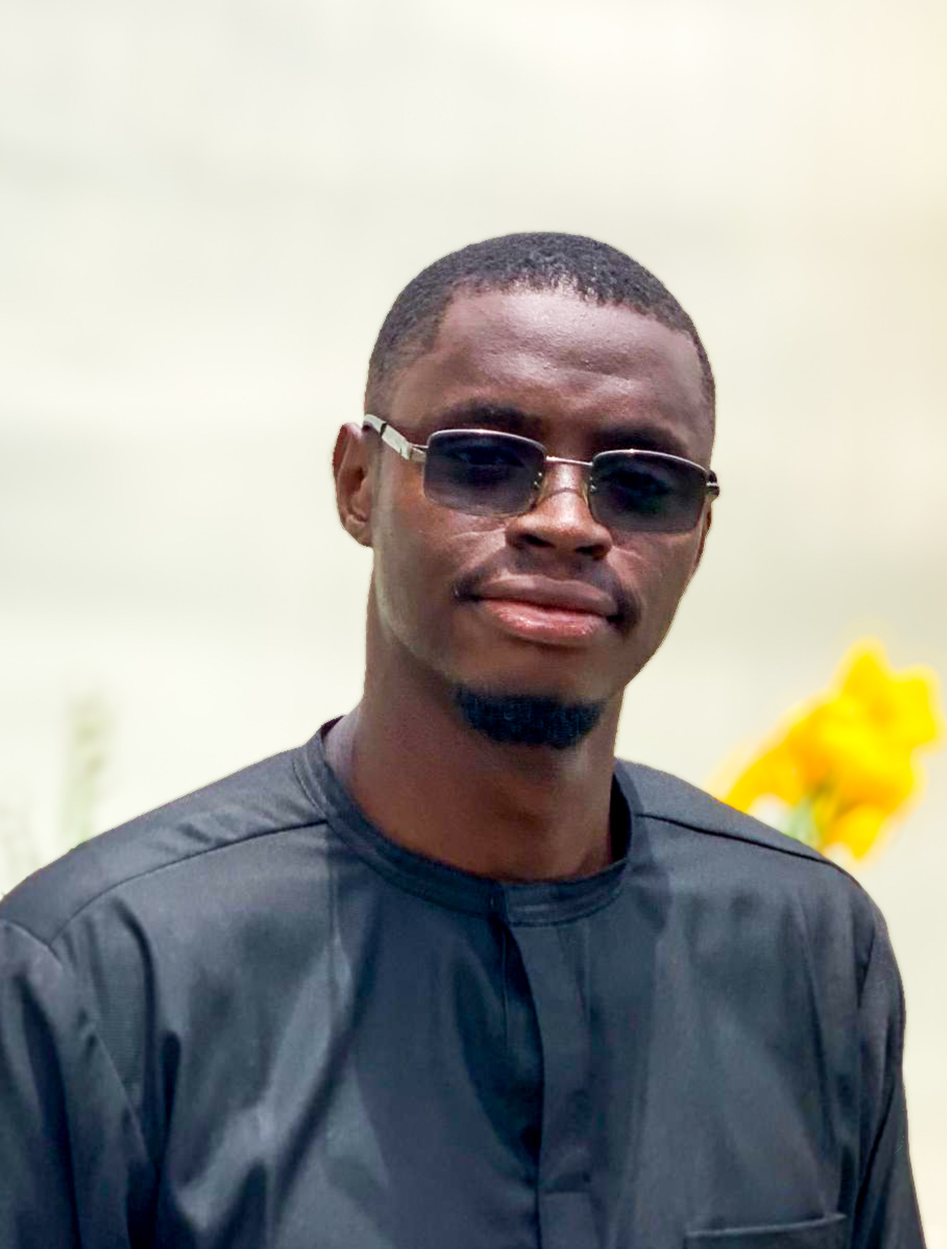
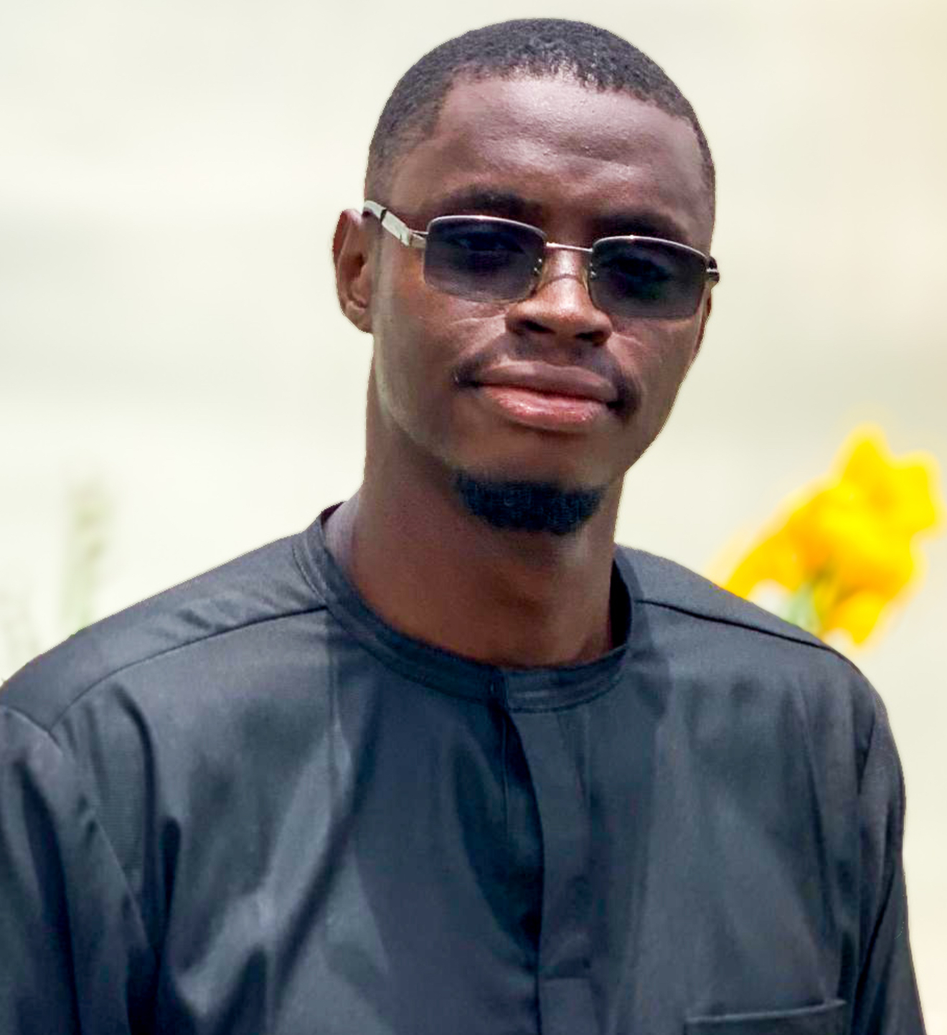
done

diff --git a/public/about.html b/public/about.html
@@ -219,7 +219,7 @@
                 </div>
                 <!-- Team Member 4: Emmanuel Effiom -->
                 <div class="bg-gray-50 dark:bg-gray-800 rounded-xl shadow-md overflow-hidden transition-all duration-300 team-card cursor-pointer" onclick="openTeamModal('emmanuel')">
-                    <div class="overflow-hidden h-64" style="background-image: url(img/mannee.jpg); background-size: cover; object-fit: cover; background-position: center; background-position-y: 90%;">
+                    <div class="overflow-hidden h-64" style="background-image: url(img/1261.png); background-size: cover; object-fit: cover; background-position: center; background-position-y: 0%;">
                        
                     </div>
                     <div class="p-6 ">
@@ -272,7 +272,7 @@
                     <div class="md:col-span-2">
                         <p class="text-gray-600 dark:text-gray-300 mb-2">Efiok Archibong, Ph.D., is a lecturer and researcher at David Umahi Federal University of Health Sciences. He holds a bachelor’s degree in physiology, a master’s degree in blood physiology, and a Ph.D. degree in cardiovascular physiology, all from the University of Calabar, Nigeria. </p>
                             <p class="text-gray-600 dark:text-gray-300">Efiok is a resourceful fellow with good leadership skills and exceptional ability to engage in rigorous and meaningful activities. He has performed research copiously and presented excellent seminar and conference papers. He possesses an investigative mindset and passion for the scientific process, in addition to his great problem-solving skills and cognitive skills. He is always willing to offer his time, skills, expertise, resources and support in the service to humanity. Efiok is doing his best to create an environment for significant positive change, helping the less privileged and promoting education and health. </p>
-                        <a href="efioka@augustineudefafoundation.com" class="text-gold-500 hover:text-gold-500 social-icon"><i class="fa-solid fa-envelope"></i>efioka@augustineudefafoundation.com</a>
+                        <!-- <a href="efioka@augustineudefafoundation.com" class="text-gold-500 hover:text-gold-500 social-icon"><i class="fa-solid fa-envelope"></i>efioka@augustineudefafoundation.com</a> -->
                     </div>
                 </div>
                 <div class="flex justify-end">
@@ -303,7 +303,7 @@
                     <div class="md:col-span-2">
                         <p class="text-gray-600 dark:text-gray-300 mb-2">Anyati, Charles-Vic is a forward-thinking visual artist and technologist who blends creativity with innovation to craft impactful visual experiences. Born in Obudu, Cross River State, he holds a Bachelor of Arts degree from the University of Cross River State, where he developed a strong foundation in design, visual storytelling, and creative technology.</p>
                             <p class="text-gray-600 dark:text-gray-300">With expertise in branding, printing, and digital design, Charles-Vic brings stories to life through art that resonates, engages, and inspires. As the founder of a growing creative business, Charles-Vic is passionate about using visual language to solve problems, spark emotion, and elevate brands. His work bridges aesthetics with function driven by a deep belief in the power of creativity to transform ideas into lasting impressions.</p>
-                        <a href="mailto:charlesvica@augustineudefafoundation.com" class="text-gold-500 hover:text-gold-500 social-icon"><i class="fa-solid fa-envelope"></i>charlesvica@augustineudefafoundation.com</a>
+                        <!-- <a href="mailto:charlesvica@augustineudefafoundation.com" class="text-gold-500 hover:text-gold-500 social-icon"><i class="fa-solid fa-envelope"></i>charlesvica@augustineudefafoundation.com</a> -->
                     </div>
                 </div>
                 <div class="flex justify-end">
@@ -335,7 +335,7 @@
                         <p class="text-gray-600 dark:text-gray-300 mb-4">
                      Orindu Esther Oluebube, a bright and compassionate young woman pursuing her passion for healthcare as a nursing student. With a strong desire to make a positive impact on people's lives, she's dedicated to her studies and clinical rotations. Her empathetic nature and excellent communication skills make her a valuable asset to the people around her  especially her colleagues. As she navigates the challenges of nursing school, she's driven by her commitment to delivering high-quality patient care and making a difference in her community.
                         </p>
-                        <a href="mailto:esthero@augustineudefafoundation.com" class="text-gold-500 hover:text-gold-500 social-icon"><i class="fa-solid fa-envelope"></i>esthero@augustineudefafoundation.com</a>
+                        <!-- <a href="mailto:esthero@augustineudefafoundation.com" class="text-gold-500 hover:text-gold-500 social-icon"><i class="fa-solid fa-envelope"></i>esthero@augustineudefafoundation.com</a> -->
                     </div>
                 </div>
                 <div class="flex justify-end">
@@ -359,7 +359,7 @@
                 </div>
                 <div class="grid md:grid-cols-3 gap-6 mb-6">
                     <div class="md:col-span-1">
-                        <img src="img/mannee.jpg" 
+                        <img src="img/1261.png" 
                              alt="charles Udefa" 
                              class="w-full rounded-lg">
                     </div>
@@ -367,7 +367,7 @@
                         <p class="text-gray-600 dark:text-gray-300 mb-4">
                        Emmanuel Effiom is a passionate developer focused on building scalable web applications and collaborating with teams to deliver impactful solutions. With a   BSc degree in Computer Science & HND in Software Engineering and a  hands-on experience in various programming languages and frameworks, Emmanuel thrives in dynamic environments where innovation and creativity are encouraged. He is committed to continuous learning and staying updated with the latest industry trends to ensure that his work remains relevant and effective. Emmanuel's dedication to excellence and problem-solving skills make him a valuable asset to any development team.
                         </p>
-                        <a href="mailto:emmanueleffiomukpabio@gmail.com" class="text-gold-500 hover:text-gold-500 social-icon"><i class="fa-solid fa-envelope"></i>emmanueleffiomukpabio@gmail.com</a>
+                        <!-- <a href="mailto:emmanueleffiomukpabio@gmail.com" class="text-gold-500 hover:text-gold-500 social-icon"><i class="fa-solid fa-envelope"></i>emmanueleffiomukpabio@gmail.com</a> -->
                     </div>
                 </div>
                 <div class="flex justify-end">
@@ -399,7 +399,7 @@
                         <p class="text-gray-600 dark:text-gray-300 mb-4">
                       Otubonchi Macjohnson Odu is a developer focused on innovative solutions and committed to continuous learning in technology. With a solid foundation in software engineering and practical experience in various programming languages and frameworks, and an HND in software engineering from Aptech Computer Education, Otubonchi excels in creating efficient and user-friendly applications.<br><br> He thrives in collaborative environments where creativity and problem-solving are encouraged. Otubonchi's dedication to staying updated with the latest industry trends ensures that his work remains relevant and impactful. His passion for technology and commitment to excellence make him a valuable contributor to any development team.
                         </p>
-                        <a href="mailto:esthero@augustineudefafoundation.com" class="text-gold-500 hover:text-gold-500 social-icon"><i class="fa-solid fa-envelope"></i>macj497@gmail.com</a>
+                        <!-- <a href="mailto:esthero@augustineudefafoundation.com" class="text-gold-500 hover:text-gold-500 social-icon"><i class="fa-solid fa-envelope"></i>macj497@gmail.com</a> -->
                     </div>
                 </div>
                 <div class="flex justify-end">
@@ -1034,7 +1034,7 @@ disease to investigate disease pathogenesis and advance novel therapeutic strate
                     <h3 class="text-lg font-semibold mb-4">Follow Us</h3>
                     <div class="flex space-x-4">
                           <a href="https://www.facebook.com/share/1CYdGtH2dk/?mibextid=wwXIfr" class="text-gray-400 hover:text-white transition-colors text-xl"><i class="fab fa-facebook-f"></i></a>
-                        <a href="#" class="text-gray-400 hover:text-white transition-colors text-xl"><img width="24" height="24" src="img/icons8-twitter-48.png" alt="twitterx--v2"/></a>
+                        <a href="https://x.com/UdefaFoundation" class="text-gray-400 hover:text-white transition-colors text-xl"><img width="24" height="24" src="img/icons8-twitter-48.png" alt="twitterx--v2"/></a>
                         <a href="https://www.instagram.com/augustineudefafoundation?igsh=eWsybWllYXlyMDB6&utm_source=qr" class="text-gray-400 hover:text-white transition-colors text-xl"><i class="fab fa-instagram"></i></a>
                            <a href="https://www.linkedin.com/in/augustine-udefa-foundation-a308a038a?utm_source=share&utm_campaign=share_via&utm_content=profile&utm_medium=ios_app" class="text-gray-400 hover:text-white transition-colors text-xl"><i class="fab fa-linkedin-in"></i></a>
                          <a href="https://www.youtube.com/@AugustineUdefaFoundation" class="text-gray-400 hover:text-white transition-colors text-xl"><i class="fab fa-youtube"></i></a>

diff --git a/public/mentor.html b/public/mentor.html
@@ -102,7 +102,7 @@
           <div class="grid grid-cols-1 md:grid-cols-2 gap-4 mt-3">
             <div>
               <label for="fullName" class="block text-sm font-medium mb-1 text-gray-900 dark:text-white">Full name</label>
-              <input type="text" id="fullName" name="fullName" required class="w-full px-4 py-2 border rounded-lg dark:bg-gray-900 dark:border-gray-700 dark:text-gray-400">
+              <input type="text" id="applicantname" name="applicantname" required class="w-full px-4 py-2 border rounded-lg dark:bg-gray-900 dark:border-gray-700 dark:text-gray-400">
             </div>
             <div>
               <label for="dob" class="block text-sm font-medium mb-1 text-gray-900 dark:text-white">Date of birth</label>
@@ -111,7 +111,7 @@
 
             <div>
               <label for="sex" class="block text-sm font-medium mb-1 text-gray-900 dark:text-white">Gender</label>
-              <select id="sex" name="sex" required class="w-full px-4 py-2 border rounded-lg dark:bg-gray-900 dark:border-gray-700 dark:text-gray-400">
+              <select id="gender" name="gender" required class="w-full px-4 py-2 border rounded-lg dark:bg-gray-900 dark:border-gray-700 dark:text-gray-400">
                 <option value="">Select</option>
                 <option value="male">Male</option>
                 <option value="female">Female</option>
@@ -126,7 +126,7 @@
 
             <div>
               <label for="stateOfOrigin" class="block text-sm font-medium mb-1 text-gray-900 dark:text-white">State of origin</label>
-              <input type="text" id="stateOfOrigin" name="stateOfOrigin" class="w-full px-4 py-2 border rounded-lg dark:bg-gray-900 dark:border-gray-700 dark:text-gray-400">
+              <input type="text" id="stateoforigin" name="stateoforigin" class="w-full px-4 py-2 border rounded-lg dark:bg-gray-900 dark:border-gray-700 dark:text-gray-400">
             </div>
             <div>
               <label for="religion" class="block text-sm font-medium mb-1 text-gray-900 dark:text-white">Religion</label>
@@ -135,16 +135,16 @@
 
             <div>
               <label for="contact" class="block text-sm font-medium mb-1 text-gray-900 dark:text-white">Contact number</label>
-              <input type="tel" id="contact" name="contact" required class="w-full px-4 py-2 border rounded-lg dark:bg-gray-900 dark:border-gray-700 dark:text-gray-400">
+              <input type="tel" id="contactnumber" name="contactnumber" required class="w-full px-4 py-2 border rounded-lg dark:bg-gray-900 dark:border-gray-700 dark:text-gray-400">
             </div>
             <div>
               <label for="email" class="block text-sm font-medium mb-1 text-gray-900 dark:text-white">Email address</label>
-              <input type="email" id="email" name="email" required class="w-full px-4 py-2 border rounded-lg dark:bg-gray-900 dark:border-gray-700 dark:text-gray-400">
+              <input type="email" id="applicantemail" name="applicantemail" required class="w-full px-4 py-2 border rounded-lg dark:bg-gray-900 dark:border-gray-700 dark:text-gray-400">
             </div>
 
             <div class="md:col-span-2">
               <label for="permanentAddress" class="block text-sm font-medium mb-1 text-gray-900 dark:text-white">Permanent address</label>
-              <textarea id="permanentAddress" name="permanentAddress" rows="2" class="w-full px-4 py-2 border rounded-lg dark:bg-gray-900 dark:border-gray-700 dark:text-gray-400"></textarea>
+              <textarea id="permanentaddress" name="permanentaddress" rows="2" class="w-full px-4 py-2 border rounded-lg dark:bg-gray-900 dark:border-gray-700 dark:text-gray-400"></textarea>
             </div>
           </div>
         </fieldset>
@@ -173,7 +173,7 @@
 
             <div>
               <label for="cgpa" class="block text-sm font-medium mb-1 text-gray-900 dark:text-white">CGPA</label>
-              <input type="text" id="cgpa" name="cgpa" placeholder="e.g. 4.00 / 5.00" class="w-full px-4 py-2 border rounded-lg dark:bg-gray-900 dark:border-gray-700 dark:text-gray-400">
+              <input type="text" id="mcgpa" name="mcgpa" placeholder="e.g. 4.00 / 5.00" class="w-full px-4 py-2 border rounded-lg dark:bg-gray-900 dark:border-gray-700 dark:text-gray-400">
             </div>
 
             <div>
@@ -241,10 +241,15 @@
           <legend class="px-2 text-lg font-semibold text-gray-900 dark:text-white">Document upload (PDFs unless otherwise stated)</legend>
           <p class="text-sm text-gray-600 dark:text-gray-300 mt-2">Upload PDFs for documents. Photograph should be a JPG/PNG.</p>
 
+          
           <div class="grid grid-cols-1 md:grid-cols-2 gap-4 mt-3">
+               <div>
+          <label for="admission-letter" class="block text-sm font-medium mb-1 dark:text-white text-gray-900">Upload Photo</label>
+           <input type="hidden" role="uploadcare-uploader" id="photo" name="photo" data-public-key="bb3e37fd7caa0a712fe8" data-tabs="file url" data-clearable="true" data-multiple="false"  data-crop="" data-system-dialog="true" data-preview-step="true" required />
+        </div>
             <div>
               <label for="coverLetter" class="block text-sm font-medium mb-1 text-gray-900 dark:text-white">Cover letter (PDF)</label>
-              <input type="hidden" role="uploadcare-uploader" id="coverLetter" name="coverLetter" data-public-key="bb3e37fd7caa0a712fe8" data-tabs="file url" data-clearable="true" data-accept="application/pdf" data-preview-step="true" />
+              <input type="hidden" role="uploadcare-uploader" id="mcoverLetter" name="mcoverLetter" data-public-key="bb3e37fd7caa0a712fe8" data-tabs="file url" data-clearable="true" data-accept="application/pdf" data-preview-step="true" />
             </div>
 
             <div>
@@ -277,10 +282,7 @@
               <input type="hidden" role="uploadcare-uploader" id="recommendation3" name="recommendation3" data-public-key="bb3e37fd7caa0a712fe8" data-tabs="file url" data-clearable="true" data-accept="application/pdf" data-preview-step="true" />
             </div>
 
-            <div>
-              <label for="photoUpload" class="block text-sm font-medium mb-1 text-gray-900 dark:text-white">Photograph (JPG/PNG)</label>
-              <input type="hidden" role="uploadcare-uploader" id="photoUpload" name="photoUpload" data-public-key="bb3e37fd7caa0a712fe8" data-tabs="file url camera" data-clearable="true" data-accept="image/*" data-images-only="true" data-preview-step="true" />
-            </div>
+         
           </div>
         </fieldset>
 

diff --git a/public/speakingscholarship.html b/public/speakingscholarship.html
@@ -42,14 +42,14 @@
       <p>The Augustine Udefa Speaking Scholarship is awarded to students in African educational institutions, who can demonstrate good public speaking skills and critical thinking ability. The scholarship is awarded to students in any discipline, and winning it is contingent on the student being of good moral conduct and winning a series of speaking competitions. The scholarship provides full school fees support for the duration of your studies and a one-time cash payment.</p>
       <h2 class="font-semibold text-lg">Eligibility</h2>
       <ul class="list-disc ml-6">
-        <li>You must be a student in a African public university, polytechnic, monotechnic, or college of education in your first or second year. However, you may be considered if you're in your third or fourth year and you can demonstrate that you are passing through financial hardship.</li>
+        <li>You must be a student in an African public university, polytechnic, monotechnic, or college of education in your first or second year. However, you may be considered if you're in your third or fourth year and you can demonstrate that you are passing through financial hardship.</li>
         <li>You must be of good moral conduct.</li>
         <li>You must submit all required application documents via the application portal. Documents required include curriculum vitae, admission letter, and an attestation letter from your Head of Department (HOD) on their letterhead, attesting to your good moral conduct.</li>
       </ul>
       <h2 class="font-semibold text-lg">Scholarship Value</h2>
       <ul class="list-disc ml-6">
-        <li><strong>Winner:</strong> Full school  fee support for the period of your program. Cash prize of N100,000.</li>
-        <li><strong>2nd Position:</strong> Full school  fee support for one academic session. Cash prize of N50,000.</li>
+        <li><strong>Winner:</strong> Full school  fee support for the period of your program. Cash prize of ₦100,000.</li>
+        <li><strong>2nd Position:</strong> Full school  fee support for one academic session. Cash prize of ₦50,000.</li>
         <li><strong>3rd Position:</strong> Full school  fee support for one academic session.</li>
       </ul>
       <h2 class="font-semibold text-lg">Renewal & Termination</h2>
@@ -81,7 +81,7 @@ Recipients of the Augustine Udefa Speaking Scholarship are expected to be good a
         <li><strong>TikTok:</strong> <a href="https://www.tiktok.com/@ytino.intellectual?_t=ZM-8y2RLjtGYQY&_r=1" target="_blank" class="text-gold-500 underline">Y’tino Intellectual Discourse</a></li>
         <li><strong>YouTube:</strong> <a href="https://www.youtube.com/@augustineudefafoundation" target="_blank" class="text-gold-500 underline">Augustine Udefa Foundation</a></li>
       </ul>
-      <p>Each speaker will make a video presentation of their points and forward the video to the Foundation via a dedicated phone number which will be sent to the speakers. The video should be clear and audible and not be more than 3 min.</p>
+      <p>Each speaker will make a video presentation of their points and forward the video to the Foundation via a dedicated email address which will be sent to the speakers. The video should be clear and audible and not be more than 3 min.</p>
       <h3 class="font-semibold text-md mt-4">Stages</h3>
       <ul class="list-disc ml-6">
         <li><strong>Stage 1:</strong> Each member in each group will compete with the other members in the same group individually. For each win, the winner will be assigned three points. At the end of this stage, the speaker with the highest point in each group will proceed to stage 2. This means that stage 2 will consist of winners from the various groups in stage 1 (one winner from each group).</li>
@@ -193,6 +193,10 @@ Recipients of the Augustine Udefa Speaking Scholarship are expected to be good a
           <input type="text" id="cgpa" name="cgpa" class="w-full px-4 py-2 border border-gray-300 rounded-lg text-gray-900 dark:bg-gray-900 dark-border-gray-700 dark:text-gray-400" required placeholder="e.g. 4.35 / 5.0">
         </div>
         <!-- Uploadcare File Uploads (no duplicate hidden inputs) -->
+            <div>
+          <label for="admission-letter" class="block text-sm font-medium mb-1 dark:text-white text-gray-900">Upload Photo</label>
+           <input type="hidden" role="uploadcare-uploader" id="photo" name="photo" data-public-key="bb3e37fd7caa0a712fe8" data-tabs="file url" data-clearable="true" data-multiple="false"  data-crop="" data-system-dialog="true" data-preview-step="true" required />
+        </div>
         <div>
           <label for="coverletter" class="block text-sm font-medium mb-1 dark:text-white text-gray-900">Cover Letter (PDF)</label>
           <input type="hidden" role="uploadcare-uploader" id="coverletter" name="coverletter" data-public-key="bb3e37fd7caa0a712fe8" data-tabs="file url" data-clearable="true" data-multiple="false" data-images-only="false" data-accept="application/pdf" data-crop="" data-input-accept-types="application/pdf" data-system-dialog="true" data-preview-step="true" required />

diff --git a/public/program.html b/public/program.html
@@ -1164,7 +1164,7 @@
                     <h3 class="text-lg font-semibold mb-4">Follow Us</h3>
                     <div class="flex space-x-4">
                           <a href="https://www.facebook.com/share/1CYdGtH2dk/?mibextid=wwXIfr" class="text-gray-400 hover:text-white transition-colors text-xl"><i class="fab fa-facebook-f"></i></a>
-                        <a href="#" class="text-gray-400 hover:text-white transition-colors text-xl"><img width="24" height="24" src="img/icons8-twitter-48.png" alt="twitterx--v2"/></a>
+                        <a href="https://x.com/UdefaFoundation" class="text-gray-400 hover:text-white transition-colors text-xl"><img width="24" height="24" src="img/icons8-twitter-48.png" alt="twitterx--v2"/></a>
                         <a href="https://www.instagram.com/augustineudefafoundation?igsh=eWsybWllYXlyMDB6&utm_source=qr" class="text-gray-400 hover:text-white transition-colors text-xl"><i class="fab fa-instagram"></i></a>
                            <a href="https://www.linkedin.com/in/augustine-udefa-foundation-a308a038a?utm_source=share&utm_campaign=share_via&utm_content=profile&utm_medium=ios_app" class="text-gray-400 hover:text-white transition-colors text-xl"><i class="fab fa-linkedin-in"></i></a>
                          <a href="https://www.youtube.com/@AugustineUdefaFoundation" class="text-gray-400 hover:text-white transition-colors text-xl"><i class="fab fa-youtube"></i></a>

diff --git a/public/donate.html b/public/donate.html
@@ -279,7 +279,7 @@
                     <h3 class="text-lg font-semibold mb-4">Follow Us</h3>
                     <div class="flex space-x-4">
                           <a href="https://www.facebook.com/share/1CYdGtH2dk/?mibextid=wwXIfr" class="text-gray-400 hover:text-white transition-colors text-xl"><i class="fab fa-facebook-f"></i></a>
-                        <a href="#" class="text-gray-400 hover:text-white transition-colors text-xl"><img width="24" height="24" src="img/icons8-twitter-48.png" alt="twitterx--v2"/></a>
+                        <a href="https://x.com/UdefaFoundation" class="text-gray-400 hover:text-white transition-colors text-xl"><img width="24" height="24" src="img/icons8-twitter-48.png" alt="twitterx--v2"/></a>
                         <a href="https://www.instagram.com/augustineudefafoundation?igsh=eWsybWllYXlyMDB6&utm_source=qr" class="text-gray-400 hover:text-white transition-colors text-xl"><i class="fab fa-instagram"></i></a>
                            <a href="https://www.linkedin.com/in/augustine-udefa-foundation-a308a038a?utm_source=share&utm_campaign=share_via&utm_content=profile&utm_medium=ios_app" class="text-gray-400 hover:text-white transition-colors text-xl"><i class="fab fa-linkedin-in"></i></a>
                          <a href="https://www.youtube.com/@AugustineUdefaFoundation" class="text-gray-400 hover:text-white transition-colors text-xl"><i class="fab fa-youtube"></i></a>

diff --git a/public/event.html b/public/event.html
@@ -575,7 +575,7 @@
                     <h3 class="text-lg font-semibold mb-4">Follow Us</h3>
                     <div class="flex space-x-4">
                           <a href="https://www.facebook.com/share/1CYdGtH2dk/?mibextid=wwXIfr" class="text-gray-400 hover:text-white transition-colors text-xl"><i class="fab fa-facebook-f"></i></a>
-                        <a href="#" class="text-gray-400 hover:text-white transition-colors text-xl"><img width="24" height="24" src="img/icons8-twitter-48.png" alt="twitterx--v2"/></a>
+                        <a href="https://x.com/UdefaFoundation" class="text-gray-400 hover:text-white transition-colors text-xl"><img width="24" height="24" src="img/icons8-twitter-48.png" alt="twitterx--v2"/></a>
                         <a href="https://www.instagram.com/augustineudefafoundation?igsh=eWsybWllYXlyMDB6&utm_source=qr" class="text-gray-400 hover:text-white transition-colors text-xl"><i class="fab fa-instagram"></i></a>
                            <a href="https://www.linkedin.com/in/augustine-udefa-foundation-a308a038a?utm_source=share&utm_campaign=share_via&utm_content=profile&utm_medium=ios_app" class="text-gray-400 hover:text-white transition-colors text-xl"><i class="fab fa-linkedin-in"></i></a>
                          <a href="https://www.youtube.com/@AugustineUdefaFoundation" class="text-gray-400 hover:text-white transition-colors text-xl"><i class="fab fa-youtube"></i></a>

diff --git a/public/volunteer.html b/public/volunteer.html
@@ -443,7 +443,7 @@
                     <h3 class="text-lg font-semibold mb-4">Follow Us</h3>
                     <div class="flex space-x-4">
                           <a href="https://www.facebook.com/share/1CYdGtH2dk/?mibextid=wwXIfr" class="text-gray-400 hover:text-white transition-colors text-xl"><i class="fab fa-facebook-f"></i></a>
-                        <a href="#" class="text-gray-400 hover:text-white transition-colors text-xl"><img width="24" height="24" src="img/icons8-twitter-48.png" alt="twitterx--v2"/></a>
+                        <a href="https://x.com/UdefaFoundation" class="text-gray-400 hover:text-white transition-colors text-xl"><img width="24" height="24" src="img/icons8-twitter-48.png" alt="twitterx--v2"/></a>
                         <a href="https://www.instagram.com/augustineudefafoundation?igsh=eWsybWllYXlyMDB6&utm_source=qr" class="text-gray-400 hover:text-white transition-colors text-xl"><i class="fab fa-instagram"></i></a>
                            <a href="https://www.linkedin.com/in/augustine-udefa-foundation-a308a038a?utm_source=share&utm_campaign=share_via&utm_content=profile&utm_medium=ios_app" class="text-gray-400 hover:text-white transition-colors text-xl"><i class="fab fa-linkedin-in"></i></a>
                          <a href="https://www.youtube.com/@AugustineUdefaFoundation" class="text-gray-400 hover:text-white transition-colors text-xl"><i class="fab fa-youtube"></i></a>

diff --git a/public/orphanscholarship.html b/public/orphanscholarship.html
@@ -157,6 +157,10 @@
           <label for="cgpa" class="block text-sm font-medium mb-1 dark:text-white text-gray-900">Current CGPA (if applicable)</label>
           <input type="text" id="ocgpa" name="ocgpa" class="w-full px-4 py-2 border border-gray-300 rounded-lg text-gray-900 dark:bg-gray-900 dark:border-gray-700 dark:text-gray-400" placeholder="e.g. 4.35 / 5.0">
         </div>
+           <div>
+          <label for="admission-letter" class="block text-sm font-medium mb-1 dark:text-white text-gray-900">Upload Photo</label>
+           <input type="hidden" role="uploadcare-uploader" id="photo" name="photo" data-public-key="bb3e37fd7caa0a712fe8" data-tabs="file url" data-clearable="true" data-multiple="false"  data-crop="" data-system-dialog="true" data-preview-step="true" required />
+        </div>
          <div>
           <label for="admissionletter" class="block text-sm font-medium mb-1 dark:text-white text-gray-900">Admission Letter (PDF)</label>
           <input type="hidden" role="uploadcare-uploader" id="oadmissionletter" name="oadmissionletter" data-public-key="bb3e37fd7caa0a712fe8" data-tabs="file url" data-clearable="true" data-multiple="false" data-images-only="false" data-accept="application/pdf" data-crop="" data-input-accept-types="application/pdf" data-system-dialog="true" data-preview-step="true" required />

diff --git a/public/index.html b/public/index.html
@@ -785,7 +785,7 @@ Sunday holds bachelor’s and master’s degrees in physiology from the Universi
                     <div class="flex space-x-4">
                           <a href="https://www.facebook.com/share/1CYdGtH2dk/?mibextid=wwXIfr" class="text-gray-400 hover:text-white transition-colors text-xl"><i class="fab fa-facebook-f"></i></a>
 
-                        <a href='https://www.twitter.com' class="text-gray-400 hover:text-white transition-colors text-xl"><img width="24" height="24" src="img/icons8-twitter-48.png" alt="twitterx--v2"/></a>
+                        <a href='https://x.com/UdefaFoundation' class="text-gray-400 hover:text-white transition-colors text-xl"><img width="24" height="24" src="img/icons8-twitter-48.png" alt="twitterx--v2"/></a>
 
                         <a href="https://www.instagram.com/augustineudefafoundation?igsh=eWsybWllYXlyMDB6&utm_source=qr" class="text-gray-400 hover:text-white transition-colors text-xl"><i class="fab fa-instagram"></i></a>
 
